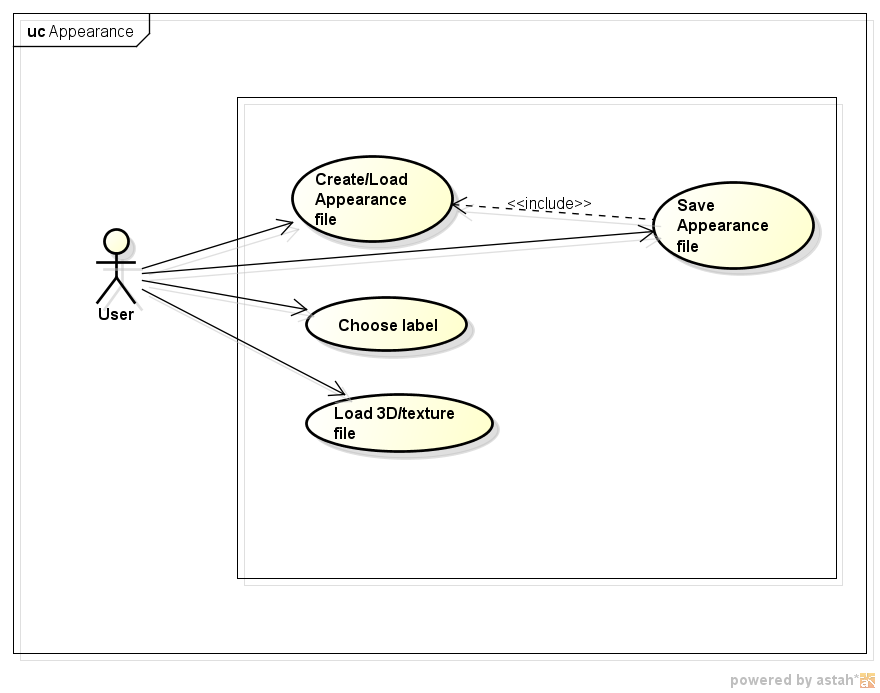
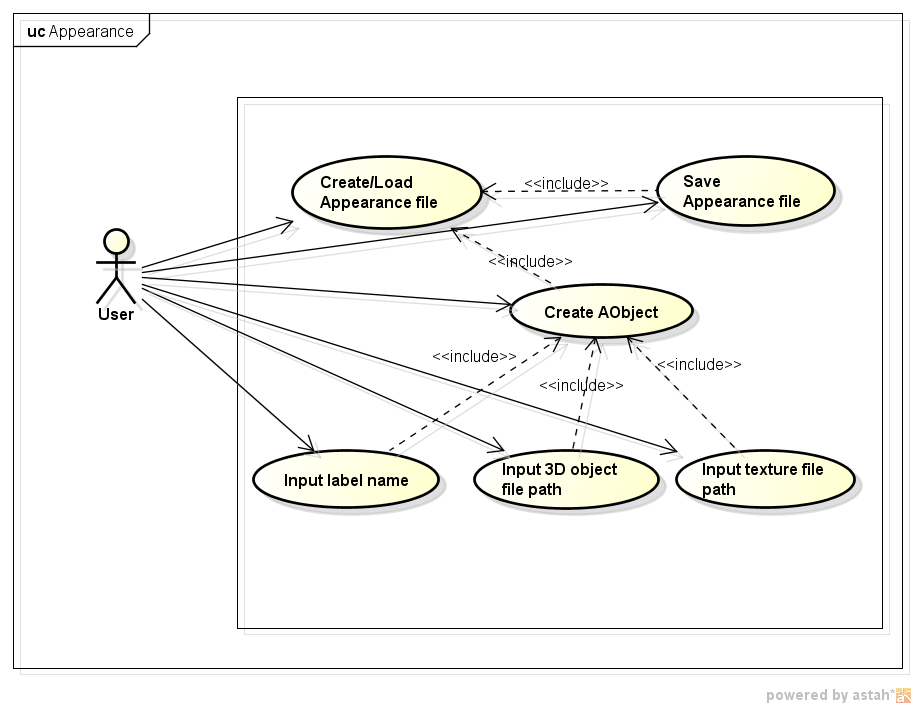
//System Specification updates
git-svn-id: https://svn.imm.dtu.dk/se2/svn/e13-groupA@569 2c9cc009-7d77-48f4-a239-25ca0ae51001

diff --git a/doc/SystemSpecification/section/configuration-editor.tex b/doc/SystemSpecification/section/configuration-editor.tex
@@ -1,22 +1,27 @@
 \subsection{Configuration Editor}
-\writer{Albert}
+\writer{Albert, Monica}
 
 The Configuration Editor is a component that will work as a connector between the Petri net editor (Section \ref{sec:sf-petrinet}), the Geometry editor (Section \ref{sec:sf-geometry}) and the Appearance editor (Section \ref{sec:sf-appearance}). 
+
+The editor will allow the user to load the corresponding files, created in the previous editors, that will make it possible for the simulation to be started. In order to use the Configuration Editor, the user has to \textit{create} a new or \textit{load} an existing appearance file he/she wants to edit.
 
 \subsubsection{Functional Requirements}
 
 \begin{enumerate}
-	\item The Configuration Editor \textbf{shall} allow the user to load a Petri net file containing its model.
-	\item The Configuration Editor \textbf{shall} allow the user to load a Geometry file containing its model.
-	\item The Configuration Editor \textbf{shall} allow the user to load an Appearance file containing its model.
-	\item The Configuration Editor \textbf{shall} allow the user to start a simulation with the referenced Petri net, Geometry and Appearance models.
-	\item The Configuration Editor \textbf{shall} allow the user to validate the data from the loaded files.
-	\item The Configuration Editor \textbf{shall} allow the user to save and load a specific configuration to a file.
+	\item The Configuration Editor \textbf{shall} allow the user to load a Petri net doc file as a resource.
+	\item The Configuration Editor \textbf{shall} allow the user to assign the loaded Petri net doc file as a value to the Configuration's Petrinet property. 
+	\item The Configuration Editor \textbf{shall} allow the user to load a Geometry file as a resource.
+	\item The Configuration Editor \textbf{shall} allow the user to assign the loaded Geometry file as a value to the Configuration's Geometry property.  
+	\item The Configuration Editor \textbf{shall} allow the user to load an Appearance file as a resource.
+	\item The Configuration Editor \textbf{shall} allow the user to assign the loaded Appearance file as a value to the Configuration's Appearance property. 
+	\item The Configuration Editor \textbf{shall} allow the user to start a simulation with the referenced Petri net, Geometry and Appearance resources.
+	\item The Configuration Editor \textbf{shall} allow the user to validate that all the needed files have been loaded.
+	\item The Configuration Editor \textbf{shall} allow the user to save a Configuration file.
 \end{enumerate}
 
 \subsubsection{Use cases}
 
-The features described above are shown in Figure~\ref{fig:use-cases-configuration}.
+The features described above are shown in the following use case diagram Figure~\ref{fig:use-cases-configuration}.
 
 \begin{figure}[htp]
 \begin{center}

diff --git a/doc/SystemSpecification/section/appearance-editor.tex b/doc/SystemSpecification/section/appearance-editor.tex
@@ -2,22 +2,25 @@
 \label{sec:sf-appearance}
 \writer{Monica}
 
-The Appearance Editor is a component that will allow the user to add visual information such as shapes and textures to the Petri net objects to be simulated. The connection between the appearance files and the Petri net objects will be done via the \textit{appearance labels}. 
+The Appearance Editor is a component that will allow the user to add visual information such as 3D objects and textures to the Petri net objects to be simulated. The connection between the appearance files and the Petri net objects will be done via the \textit{appearance labels} defined by the user in the Geometry editor (See section \ref{sec:sf-geometry}). 
+
+Before using the Appearance Editor, the user has to \textit{create} a new or \textit{load} an existing appearance file he/she wants to edit.
 
 \subsubsection{Functional Requirements}
 
 \begin{enumerate}
-\item The Appearance Editor \textbf{shall} allow the user to link appearance labels to 3D objects by choosing a predefined file.
-\item The Appearance Editor \textbf{shall} allow the user to link appearance labels to textures by choosing a predefined file.
-\item The Appearance Editor \textbf{shall} create an Appearance file in a format that can be read by the Configuration Editor.
-\item The Appearance Editor \textbf{shall} allow the user to load an Appearance file.
+\item The Appearance Editor \textbf{shall} allow the user to create new appearance objects, \textit{AObject}.
+\item The Appearance Editor \textbf{shall} allow the user to input the name of an appearance label for an AObject.
+\item It \textbf{would be nice} to allow the user to load a Geometry file in order to retrieve all the appearance labels.
+\item The Appearance Editor \textbf{shall} allow the user to input the path of a predefined 3D object file for an  AObject.
+\item The Appearance Editor \textbf{shall} allow the user to input the path of a predefined texture file for an AObject.
 \item The Appearance Editor \textbf{shall} allow the user to save an Appearance file.
-\item It \textbf{would be nice} to allow the user to load a Geometry file in order to retrieve all the appearance labels.     
+     
 \end{enumerate}
 
 \subsubsection{Use cases}
 
-The features described above are shown in Figure~\ref{fig:use-cases-appearance-editor}.
+The features described above are shown in the following use case diagram Figure~\ref{fig:use-cases-appearance-editor}.
 
 \begin{figure}[htp]
 \begin{center}

diff --git a/doc/SystemSpecification/section/system-features.tex b/doc/SystemSpecification/section/system-features.tex
@@ -3,15 +3,15 @@
 
 In this section, the main features of the components will be discussed, as well as possible features that may be implemented in future releases of the product.
 The main functionalities needed by each component in order for the project to work will be discussed into more detail. \newline
-Use cases are provided in each section to provide information on how the components will be used by the final user. 
+The main use cases of the system components are also provided in each subsection in order to describe how the system will be used by the final user. 
 
 \subsection{Conventions}
 
 The priority of the requirements in Section \ref{sec:system-features} and \ref{sec:non-functional} will be indicated by the keywords \textbf{shall}, \textbf{should} and \textbf{would be nice}:
 
 \begin{itemize}
-	\item \textbf{Shall}: Requirements that must be implemented as a minimum, resources must be allocated to these requirements.
-	\item \textbf{Should}: Requirements that add more functionality to the software, but are not the core required to work, if possible, resources will be allocated.
+	\item \textbf{Shall}: Requirements that must be implemented as a minimum; resources must be allocated to these requirements.
+	\item \textbf{Should}: Requirements that add more functionality to the software, but are not the core required to work; if possible, resources will be allocated.
 	\item \textbf{Would be nice}: Requirements considered good ideas and would be implemented if there are sufficient resources or in later versions of the software.
 \end{itemize}
 
